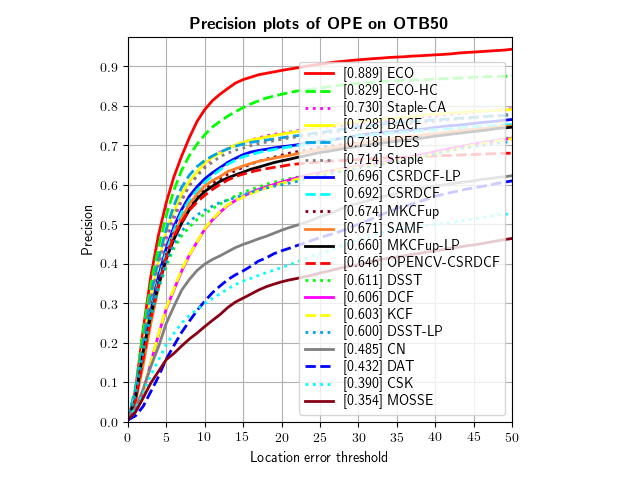
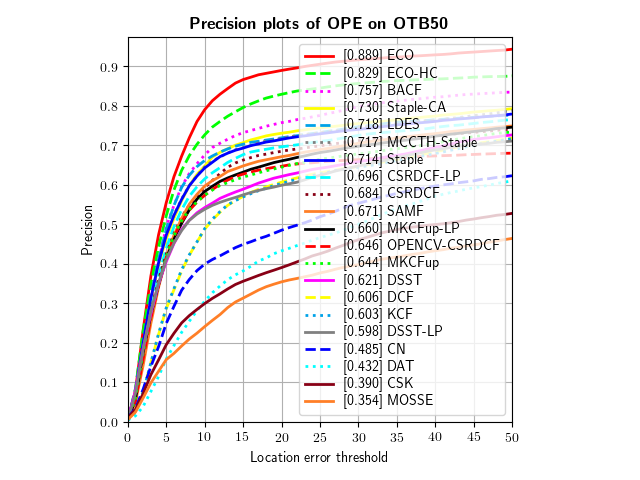
update strcf still not so correct

diff --git a/cftracker/strcf.py b/cftracker/strcf.py
@@ -10,14 +10,13 @@ Python re-implemented of "Learning Spatial-Temporal Regularized Correlation Filt
 """
 import numpy as np
 import cv2
-import copy
 from lib.utils import cos_window,gaussian2d_rolled_labels
 from lib.fft_tools import fft2,ifft2
 from .base import BaseCF
 from .feature import extract_hog_feature,extract_cn_feature
 from .config import strdcf_hc_config
 from .cf_utils import resp_newton,mex_resize,resize_dft2
-from .scale_estimator import LPScaleEstimator
+from .scale_estimator import LPScaleEstimator,DSSTScaleEstimator
 
 class STRCF(BaseCF):
     def __init__(self,config=strdcf_hc_config.STRDCFHCConfig()):
@@ -66,6 +65,7 @@ class STRCF(BaseCF):
 
         self.use_mex_resize=True
 
+        self.scale_type=config.scale_type
         self.scale_config = config.scale_config
 
         self.normalize_power=config.normalize_power
@@ -115,6 +115,7 @@ class STRCF(BaseCF):
         #self.reg_window=self.create_reg_window(reg_scale,use_sz,self.p,self.reg_window_max,
         #                                      self.reg_window_min,self.alpha,self.beta)
         self.reg_window=self.create_reg_window_const(reg_scale,use_sz,self.reg_window_max,self.reg_window_min)
+
         self.ky = np.roll(np.arange(-int(np.floor((self.feature_map_sz[1] - 1) / 2)),
                                     int(np.ceil((self.feature_map_sz[1] - 1) / 2 + 1))),
                           -int(np.floor((self.feature_map_sz[1] - 1) / 2)))
@@ -137,8 +138,20 @@ class STRCF(BaseCF):
             #print(self._min_scale_factor)
             #print(self._max_scale_factor)
 
-        self.scale_estimator = LPScaleEstimator(self.target_sz, config=self.scale_config)
-        self.scale_estimator.init(first_frame, self._center, self.base_target_sz, self.sc)
+        if self.scale_type=='normal':
+            self.scale_estimator = DSSTScaleEstimator(self.target_sz, config=self.scale_config)
+            self.scale_estimator.init(first_frame, self._center, self.base_target_sz, self.sc)
+            self._num_scales = self.scale_estimator.num_scales
+            self._scale_step = self.scale_estimator.scale_step
+
+            self._min_scale_factor = self._scale_step ** np.ceil(
+                np.log(np.max(5 / np.array(([self.crop_size[0], self.crop_size[1]])))) / np.log(self._scale_step))
+            self._max_scale_factor = self._scale_step ** np.floor(np.log(np.min(
+                first_frame.shape[:2] / np.array([self.base_target_sz[1], self.base_target_sz[0]]))) / np.log(
+                self._scale_step))
+        elif self.scale_type=='LP':
+            self.scale_estimator=LPScaleEstimator(self.target_sz,config=self.scale_config)
+            self.scale_estimator.init(first_frame,self._center,self.base_target_sz,self.sc)
 
 
         patch = self.get_sub_window(first_frame, self._center, model_sz=self.crop_size,
@@ -165,30 +178,26 @@ class STRCF(BaseCF):
                 sub_window = self.get_sub_window(current_frame, sample_pos, model_sz=self.crop_size,
                                                  scaled_sz=(int(round(self.crop_size[0] * scale)),
                                                             int(round(self.crop_size[1] * scale))))
-
                 hc_features=self.extrac_hc_feature(sub_window, self.cell_size)[:,:,:,np.newaxis]
-
                 if xt_hc is None:
                     xt_hc = hc_features
                 else:
                     xt_hc = np.concatenate((xt_hc, hc_features), axis=3)
             xtw_hc=xt_hc*self.cosine_window[:,:,None,None]
-
             xtf_hc=fft2(xtw_hc)
-
             responsef_hc=np.sum(np.conj(self.f_pre_f_hc)[:,:,:,None]*xtf_hc,axis=2)
             responsef=responsef_hc
             response = np.real(ifft2(responsef))
 
 
-            #disp_row,disp_col,sind=resp_newton(response,responsef,self.newton_iterations,self.ky,self.kx,self.feature_map_sz)
+            disp_row,disp_col,sind=resp_newton(response,responsef,self.newton_iterations,self.ky,self.kx,self.feature_map_sz)
 
-            row, col, sind = np.unravel_index(np.argmax(response, axis=None), response.shape)
+            #row, col, sind = np.unravel_index(np.argmax(response, axis=None), response.shape)
 
-            disp_row = (row+ int(np.floor(self.feature_map_sz[1] - 1) / 2)) % self.feature_map_sz[1] - int(
-                np.floor((self.feature_map_sz[1] - 1) / 2))
-            disp_col = (col + int(np.floor(self.feature_map_sz[0] - 1) / 2)) % self.feature_map_sz[0] - int(
-                np.floor((self.feature_map_sz[0] - 1) / 2))
+            #disp_row = (row+ int(np.floor(self.feature_map_sz[1] - 1) / 2)) % self.feature_map_sz[1] - int(
+            #    np.floor((self.feature_map_sz[1] - 1) / 2))
+            #disp_col = (col + int(np.floor(self.feature_map_sz[0] - 1) / 2)) % self.feature_map_sz[0] - int(
+            #    np.floor((self.feature_map_sz[0] - 1) / 2))
 
             if vis is True:
                 self.score = response[:, :, sind].astype(np.float32)
@@ -204,6 +213,9 @@ class STRCF(BaseCF):
             self.sc = np.clip(self.sc, self._min_scale_factor, self._max_scale_factor)
             self.sc = self.scale_estimator.update(current_frame, self._center, self.base_target_sz,
                                                   self.sc)
+            if self.scale_type == 'normal':
+                self.sc = np.clip(self.sc, a_min=self._min_scale_factor,
+                                                    a_max=self._max_scale_factor)
             iter+=1
         sample_pos=(int(np.round(self._center[0])),int(np.round(self._center[1])))
         patch = self.get_sub_window(current_frame, sample_pos, model_sz=self.crop_size,
@@ -214,7 +226,7 @@ class STRCF(BaseCF):
         xlf_hc = fft2(xlw_hc)
         mu = self.temporal_regularization_factor
         self.f_pre_f_hc=self.ADMM(xlf_hc,self.f_pre_f_hc,mu)
-        target_sz=(int(self.base_target_sz[0]*self.sc),int(self.base_target_sz[1]*self.sc))
+        target_sz=(self.base_target_sz[0]*self.sc,self.base_target_sz[1]*self.sc)
         return [(self._center[0] - (target_sz[0]) / 2), (self._center[1] -(target_sz[1]) / 2), target_sz[0],target_sz[1]]
 
     def extrac_hc_feature(self,patch,cell_size,normalization=False):
@@ -233,6 +245,7 @@ class STRCF(BaseCF):
             sz = scaled_sz
         sz = (max(int(sz[0]), 2), max(int(sz[1]), 2))
 
+        """
         w,h=sz
         xs = (np.floor(center[0]) + np.arange(w) - np.floor(w / 2)).astype(np.int64)
         ys = (np.floor(center[1]) + np.arange(h) - np.floor(h / 2)).astype(np.int64)
@@ -241,7 +254,8 @@ class STRCF(BaseCF):
         xs[xs >= img.shape[1]] = img.shape[1] - 1
         ys[ys >= img.shape[0]] = img.shape[0] - 1
         im_patch = img[ys, :][:, xs]
-        #im_patch = cv2.getRectSubPix(img, sz, center)
+        """
+        im_patch = cv2.getRectSubPix(img, sz, center)
         if scaled_sz is not None:
             im_patch = mex_resize(im_patch, model_sz)
         return im_patch.astype(np.uint8)
@@ -272,7 +286,7 @@ class STRCF(BaseCF):
             tmp3 = 1 / (gamma + mu) * (model_xf * (Shx_f[:, :, None]))
             tmp4 = gamma / (gamma + mu) * (model_xf * Sgx_f[:, :, None])
             f_f = tmp0 - (tmp1 + tmp2 - tmp3 +tmp4) / B[:, :, None]
-            g_f = fft2(self.argmin_g(self.reg_window, gamma, np.real(ifft2(gamma * (f_f + h_f)))))
+            g_f = fft2(self.argmin_g(self.reg_window, gamma, (ifft2(gamma * (f_f + h_f)))))
             h_f = h_f + (gamma * (f_f - g_f))
             gamma = min(gamma_scale_step * gamma, gamma_max)
             iter += 1
@@ -328,6 +342,10 @@ class STRCF(BaseCF):
         if self.config.square_root_normalization:
             x = np.sign(x) * np.sqrt(np.abs(x))
         return x.astype(np.float32)
+
+
+
+
 
 
 

diff --git a/cftracker/config/strdcf_hc_config.py b/cftracker/config/strdcf_hc_config.py
@@ -8,7 +8,6 @@ class STRDCFHCConfig:
     cn_cell_size=4
     cn_n_dim=10
 
-
     search_area_shape = 'square'        # the shape of the samples
     search_area_scale = 5.0             # the scaling of the target size to get the search area
     min_image_sample_size = 150 ** 2    # minimum area of image samples
@@ -20,6 +19,7 @@ class STRDCFHCConfig:
     alpha=1000
     beta=0.4
     p=2
+
 
 
     # detection parameters
@@ -39,14 +39,36 @@ class STRDCFHCConfig:
 
     # scale parameters
     number_of_scales = 1      # number of scales to run the detector
-    scale_step = 1.01                # the scale factor
+    scale_step = 1.01               # the scale factor
     use_scale_filter = True             # use the fDSST scale filter or not
 
+
+    scale_type='LP'
     class ScaleConfig:
         learning_rate_scale = 0.015
-        scale_sz_window = (128, 128)
+        scale_sz_window = (64, 64)
 
     scale_config=ScaleConfig()
+
+
+    """
+    scale_type = 'normal'
+
+    class ScaleConfig:
+        scale_sigma_factor = 1 / 16.  # scale label function sigma
+        scale_learning_rate = 0.025  # scale filter learning rate
+        number_of_scales_filter = 11  # number of scales
+        number_of_interp_scales = 11  # number of interpolated scales
+        scale_model_factor = 1.0  # scaling of the scale model
+        scale_step_filter = 1.02  # the scale factor of the scale sample patch
+        scale_model_max_area = 32 * 16  # maximume area for the scale sample patch
+        scale_feature = 'HOG4'  # features for the scale filter (only HOG4 supported)
+        s_num_compressed_dim = 'MAX'  # number of compressed feature dimensions in the scale filter
+        lamBda = 1e-2  # scale filter regularization
+        do_poly_interp = False
+
+    scale_config = ScaleConfig()
+    """
 
     normalize_power = 2  # Lp normalization with this p
     normalize_size = True  # also normalize with respect to the spatial size of the feature

diff --git a/eval/eval_OTB.py b/eval/eval_OTB.py
@@ -10,7 +10,7 @@ from lib.pysot.visualization import draw_success_precision
 
 if __name__ == '__main__':
     parser = argparse.ArgumentParser(description='VOT Evaluation')
-    parser.add_argument('--dataset', type=str, default='OTB100',help='dataset name')
+    parser.add_argument('--dataset', type=str, default='OTB50',help='dataset name')
     parser.add_argument('--result_dir', type=str, default='test/OTB100',help='tracker result root')
     parser.add_argument('--tracker_prefix', type=str,default='test', help='tracker prefix')
     parser.add_argument('--show_video_level', action='store_true')
@@ -22,7 +22,7 @@ if __name__ == '__main__':
     tracker_dir = args.result_dir
     trackers = glob.glob(join(tracker_dir, args.tracker_prefix+'*'))
     trackers = [t.split('/')[-1] for t in trackers]
-    trackers=['MCCTH-Staple','STRCF','MKCFup-LP','MKCFup','CSRDCF-LP','DSST-LP','LDES','SAMF','Staple-CA','OPENCV-CSRDCF','DCF','MOSSE','KCF','CSK','Staple','DSST','CN','DAT','ECO-HC','ECO','BACF','CSRDCF']
+    trackers=['MCCTH-Staple','MKCFup-LP','MKCFup','CSRDCF-LP','DSST-LP','LDES','SAMF','Staple-CA','OPENCV-CSRDCF','DCF','MOSSE','KCF','CSK','Staple','DSST','CN','DAT','ECO-HC','ECO','BACF','CSRDCF']
     print(trackers)
     assert len(trackers) > 0
     args.num = min(args.num, len(trackers))

diff --git a/examples/cf_demo.py b/examples/cf_demo.py
@@ -16,7 +16,7 @@ if __name__ == '__main__':
             if data_name!='David':
                 gts=gts[start_frame-1:end_frame]
         img_dir = os.path.join(data_path,'img')
-        tracker = PyTracker(img_dir,tracker_type='BACF',dataset_config=dataset_config)
+        tracker = PyTracker(img_dir,tracker_type='STRCF',dataset_config=dataset_config)
         poses=tracker.tracking(verbose=True,video_path=os.path.join('../results/CF',data_name+'_vis.avi'))
         plot_success(gts,poses,os.path.join('../results/CF',data_name+'_success.jpg'))
         plot_precision(gts,poses,os.path.join('../results/CF',data_name+'_precision.jpg'))

diff --git a/eval/ope_otb.py b/eval/ope_otb.py
@@ -138,7 +138,7 @@ def main():
 
     logger = logging.getLogger('global')
     logger.info(args)
-    trackers = ['BACF']
+    trackers = ['STRCF']
     dataset = DatasetFactory.create_dataset(name='OTB100',
                                             dataset_root='../dataset/OTB100',
                                             load_img=True

diff --git a/eval/get_vot2016_result.py b/eval/get_vot2016_result.py
@@ -199,7 +199,7 @@ def main():
     total_lost = 0  # VOT
     speed_list = []
 
-    trackers = ['BACF']
+    trackers = ['STRCF']
 
     for tracker_type in trackers:
 

diff --git a/eval/get_vot2018_result.py b/eval/get_vot2018_result.py
@@ -193,7 +193,7 @@ def main():
     total_lost = 0  # VOT
     speed_list = []
 
-    trackers = ['BACF']
+    trackers = ['STRCF']
 
     for tracker_type in trackers:
 

diff --git a/readme.md b/readme.md
@@ -16,6 +16,8 @@ I use [pysot-toolkit](https://github.com/StrangerZhang/pysot-toolkit) to eval th
 - [x] [DAT](https://www.tugraz.at/institute/icg/research/team-bischof/lrs/downloads/dat/)  This tracker is not based on CF, I re-implement it just for understanding Staple better  
 - [x] [LDES](https://arxiv.org/pdf/1712.05231.pdf)  
 - [x] [MKCFup/MKCFup-LP](http://openaccess.thecvf.com/content_cvpr_2018/papers/Tang_High-Speed_Tracking_With_CVPR_2018_paper.pdf)    
+- [x] [MCCTH](http://openaccess.thecvf.com/content_cvpr_2018/papers/Wang_Multi-Cue_Correlation_Filters_CVPR_2018_paper.pdf)  
+- [x] [STRCF](http://openaccess.thecvf.com/content_cvpr_2018/papers/Li_Learning_Spatial-Temporal_Regularized_CVPR_2018_paper.pdf)  
 **Trackers from other repos**
 - [x] [ECO/ECO-HC](https://arxiv.org/pdf/1611.09224v1.pdf) from [pyECO](https://github.com/StrangerZhang/pyECO)
 - [x] [OPENCV-CSRDCF](https://github.com/opencv/opencv_contrib)(Note that trackers implemented in opencv get lower score because they will return a success flag and if this flag is False, the bbox will be set to (0,0,0,0))
@@ -84,17 +86,20 @@ VOT2018
 | Tracker Name  | Accuracy | Robustness | Lost Number |  EAO  |
 ---------------------------------------------------------------
 |      ECO      |  0.485   |   0.403    |    86.0     | 0.224 |
-|    CSRDCF     |  0.497   |   0.478    |    102.0    | 0.212 |
+|    CSRDCF     |  0.492   |   0.501    |    107.0    | 0.210 |
 |    ECO-HC     |  0.500   |   0.473    |    101.0    | 0.207 |
-|     LDES      |  0.519   |   0.632    |    135.0    | 0.183 |
+|   CSRDCF-LP   |  0.503   |   0.553    |    118.0    | 0.199 |
 |    Staple     |  0.524   |   0.665    |    142.0    | 0.179 |
+|     LDES      |  0.528   |   0.684    |    146.0    | 0.175 |
+| MCCTH-Staple  |  0.535   |   0.684    |    146.0    | 0.172 |
 | OPENCV-CSRDCF |  0.486   |   0.651    |    139.0    | 0.170 |
+|     BACF      |  0.511   |   0.674    |    144.0    | 0.169 |
 |      DAT      |  0.477   |   0.777    |    166.0    | 0.158 |
-|     BACF      |  0.508   |   1.054    |    225.0    | 0.119 |
+|     STRCF     |  0.483   |   0.679    |    145.0    | 0.152 |
 |      CN       |  0.439   |   1.100    |    235.0    | 0.112 |
 |     SAMF      |  0.499   |   1.147    |    245.0    | 0.110 |
-|    DSST-LP    |  0.506   |   1.194    |    255.0    | 0.108 |
-|     DSST      |  0.503   |   1.288    |    275.0    | 0.101 |
+|     DSST      |  0.492   |   1.222    |    261.0    | 0.107 |
+|    DSST-LP    |  0.512   |   1.260    |    269.0    | 0.103 |
 |      DCF      |  0.463   |   1.246    |    266.0    | 0.099 |
 |      KCF      |  0.463   |   1.330    |    284.0    | 0.094 |
 |      CSK      |  0.418   |   1.386    |    296.0    | 0.090 |
@@ -106,17 +111,20 @@ VOT2016
 | Tracker Name  | Accuracy | Robustness | Lost Number |  EAO  |
 ---------------------------------------------------------------
 |      ECO      |  0.564   |   0.256    |    55.0     | 0.336 |
+| MCCTH-Staple  |  0.574   |   0.359    |    77.0     | 0.303 |
 |    Staple     |  0.560   |   0.387    |    83.0     | 0.299 |
 |    ECO-HC     |  0.532   |   0.350    |    75.0     | 0.293 |
-|    CSRDCF     |  0.537   |   0.326    |    70.0     | 0.284 |
-|     LDES      |  0.571   |   0.415    |    89.0     | 0.272 |
+|    CSRDCF     |  0.542   |   0.359    |    77.0     | 0.273 |
+|     LDES      |  0.577   |   0.419    |    90.0     | 0.272 |
+|   CSRDCF-LP   |  0.548   |   0.354    |    76.0     | 0.272 |
+|     BACF      |  0.521   |   0.405    |    87.0     | 0.252 |
 | OPENCV-CSRDCF |  0.521   |   0.438    |    94.0     | 0.239 |
+|     STRCF     |  0.520   |   0.415    |    89.0     | 0.239 |
 |      DAT      |  0.474   |   0.503    |    108.0    | 0.232 |
-|     BACF      |  0.532   |   0.592    |    127.0    | 0.196 |
 |     SAMF      |  0.544   |   0.639    |    137.0    | 0.193 |
-|    DSST-LP    |  0.535   |   0.676    |    145.0    | 0.187 |
+|    DSST-LP    |  0.543   |   0.727    |    156.0    | 0.180 |
 |      CN       |  0.468   |   0.653    |    140.0    | 0.178 |
-|     DSST      |  0.540   |   0.736    |    158.0    | 0.175 |
+|     DSST      |  0.531   |   0.732    |    157.0    | 0.177 |
 |      DCF      |  0.474   |   0.704    |    151.0    | 0.171 |
 |      KCF      |  0.469   |   0.718    |    154.0    | 0.171 |
 |      CSK      |  0.433   |   0.886    |    190.0    | 0.139 |
